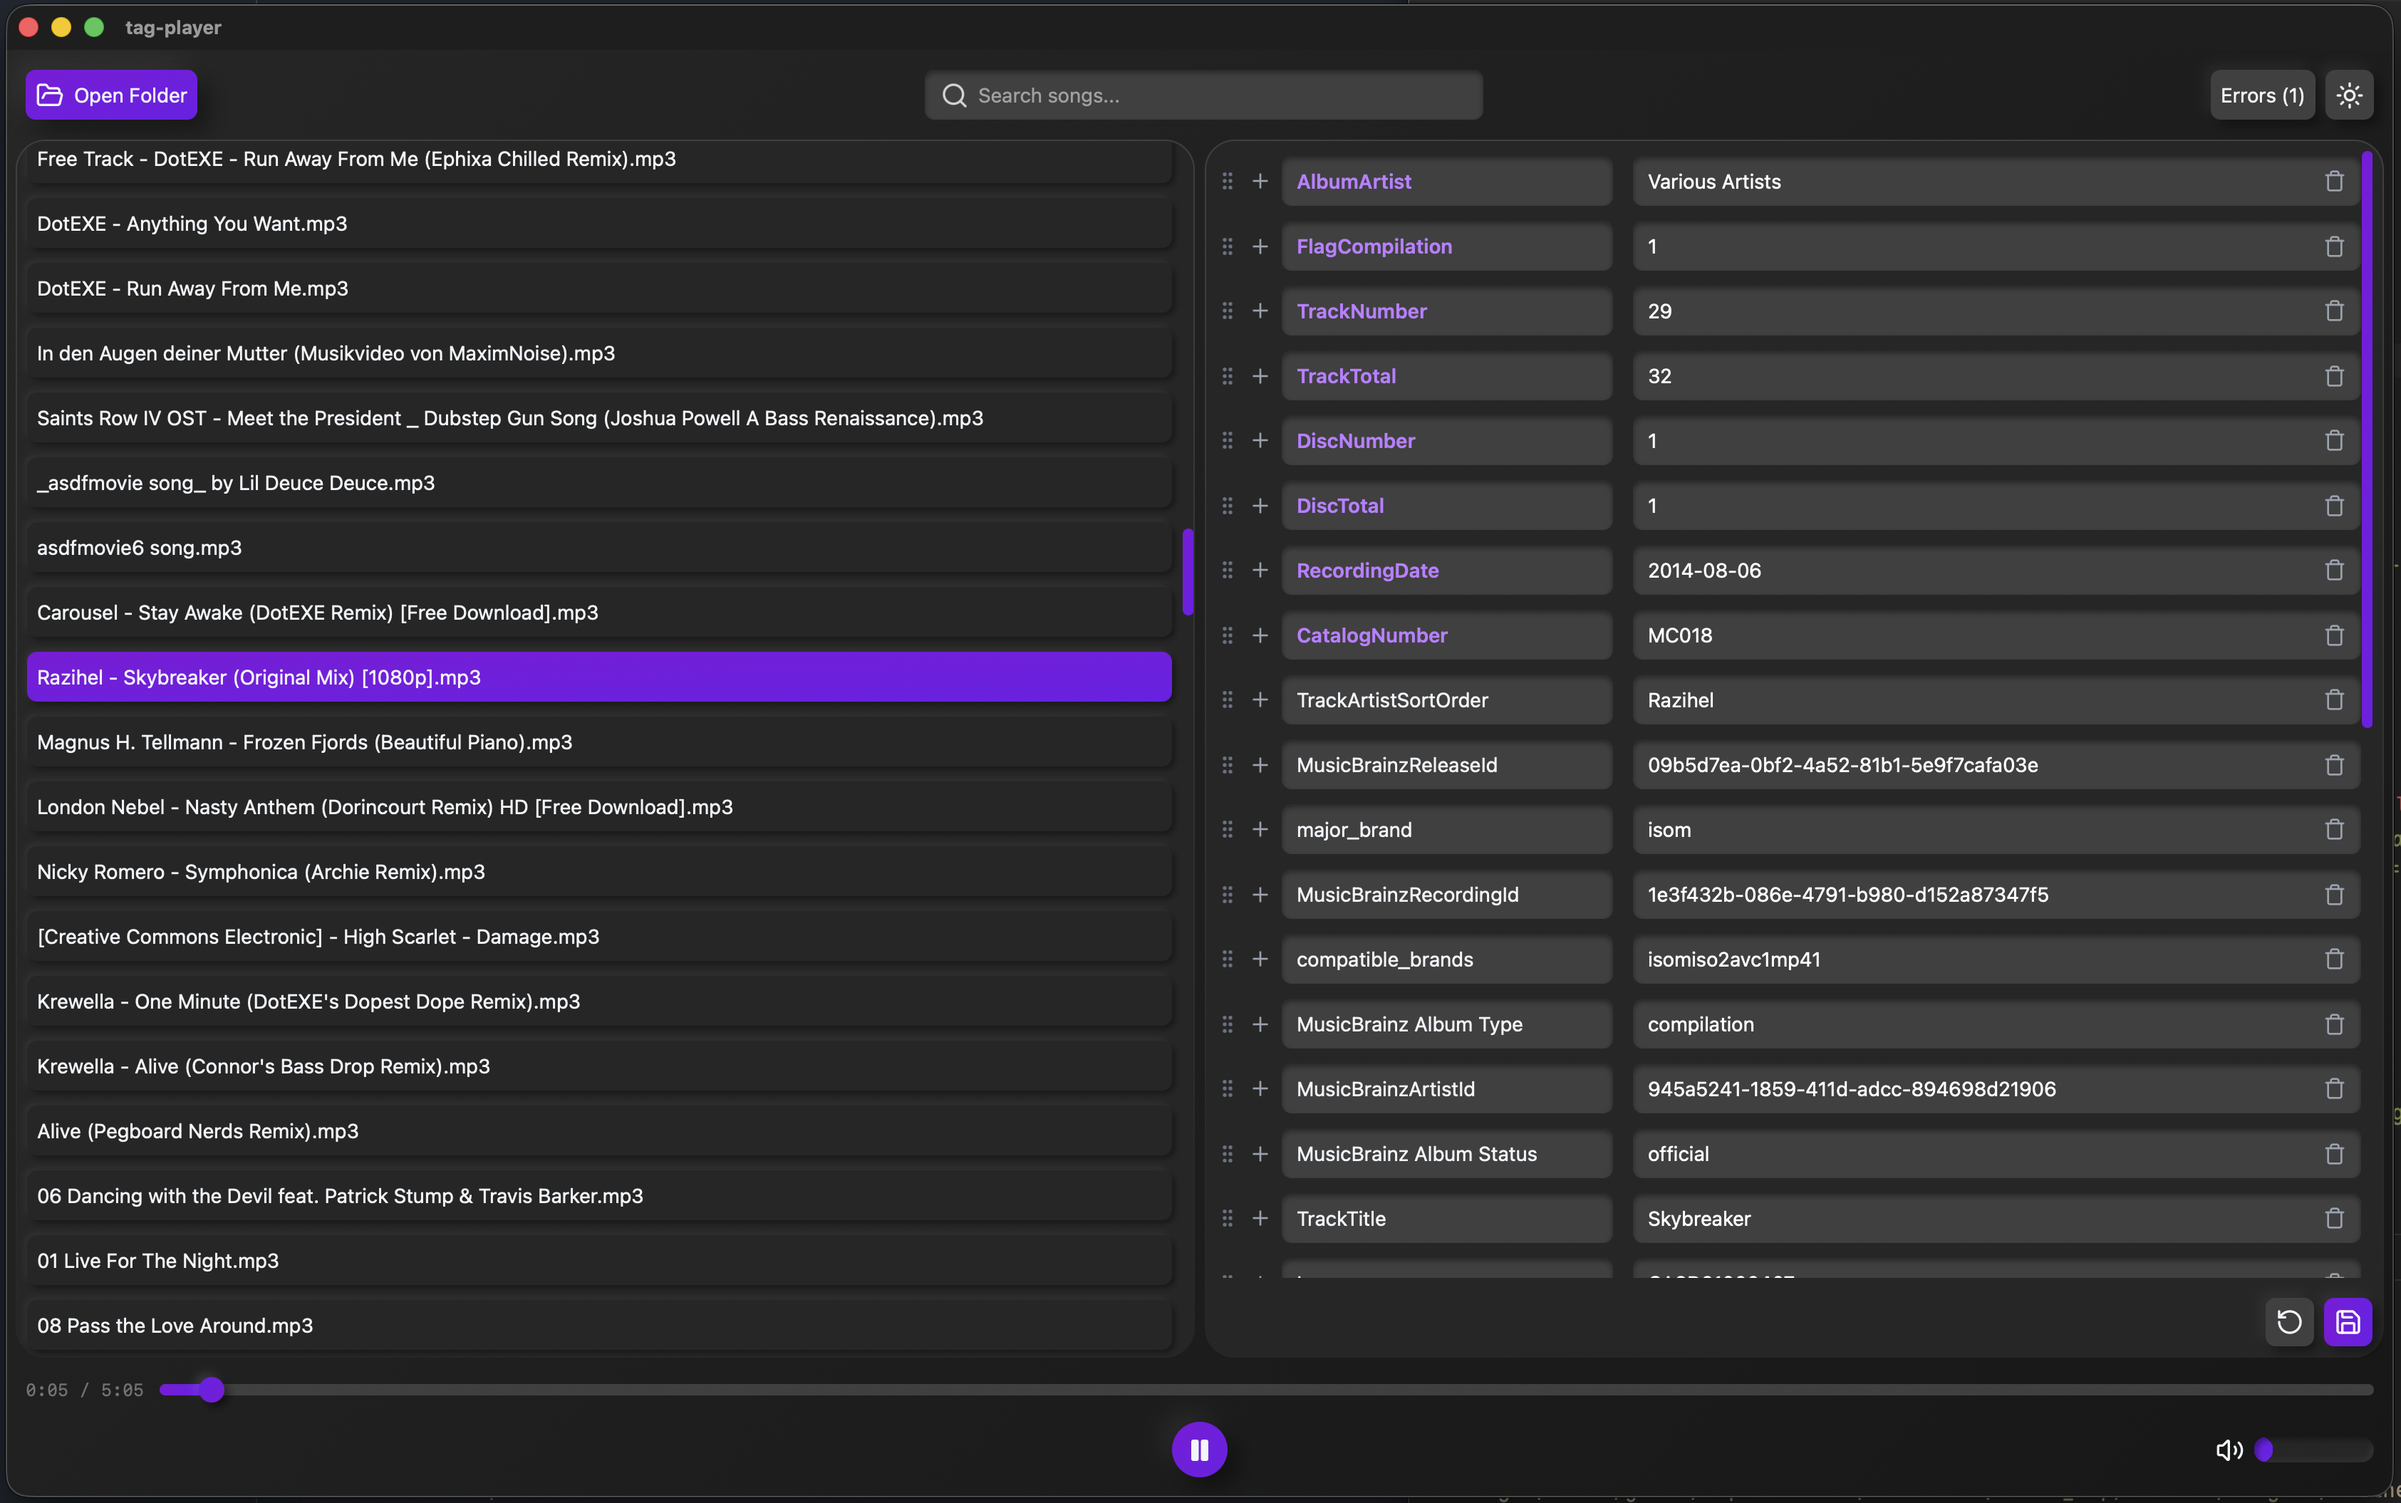
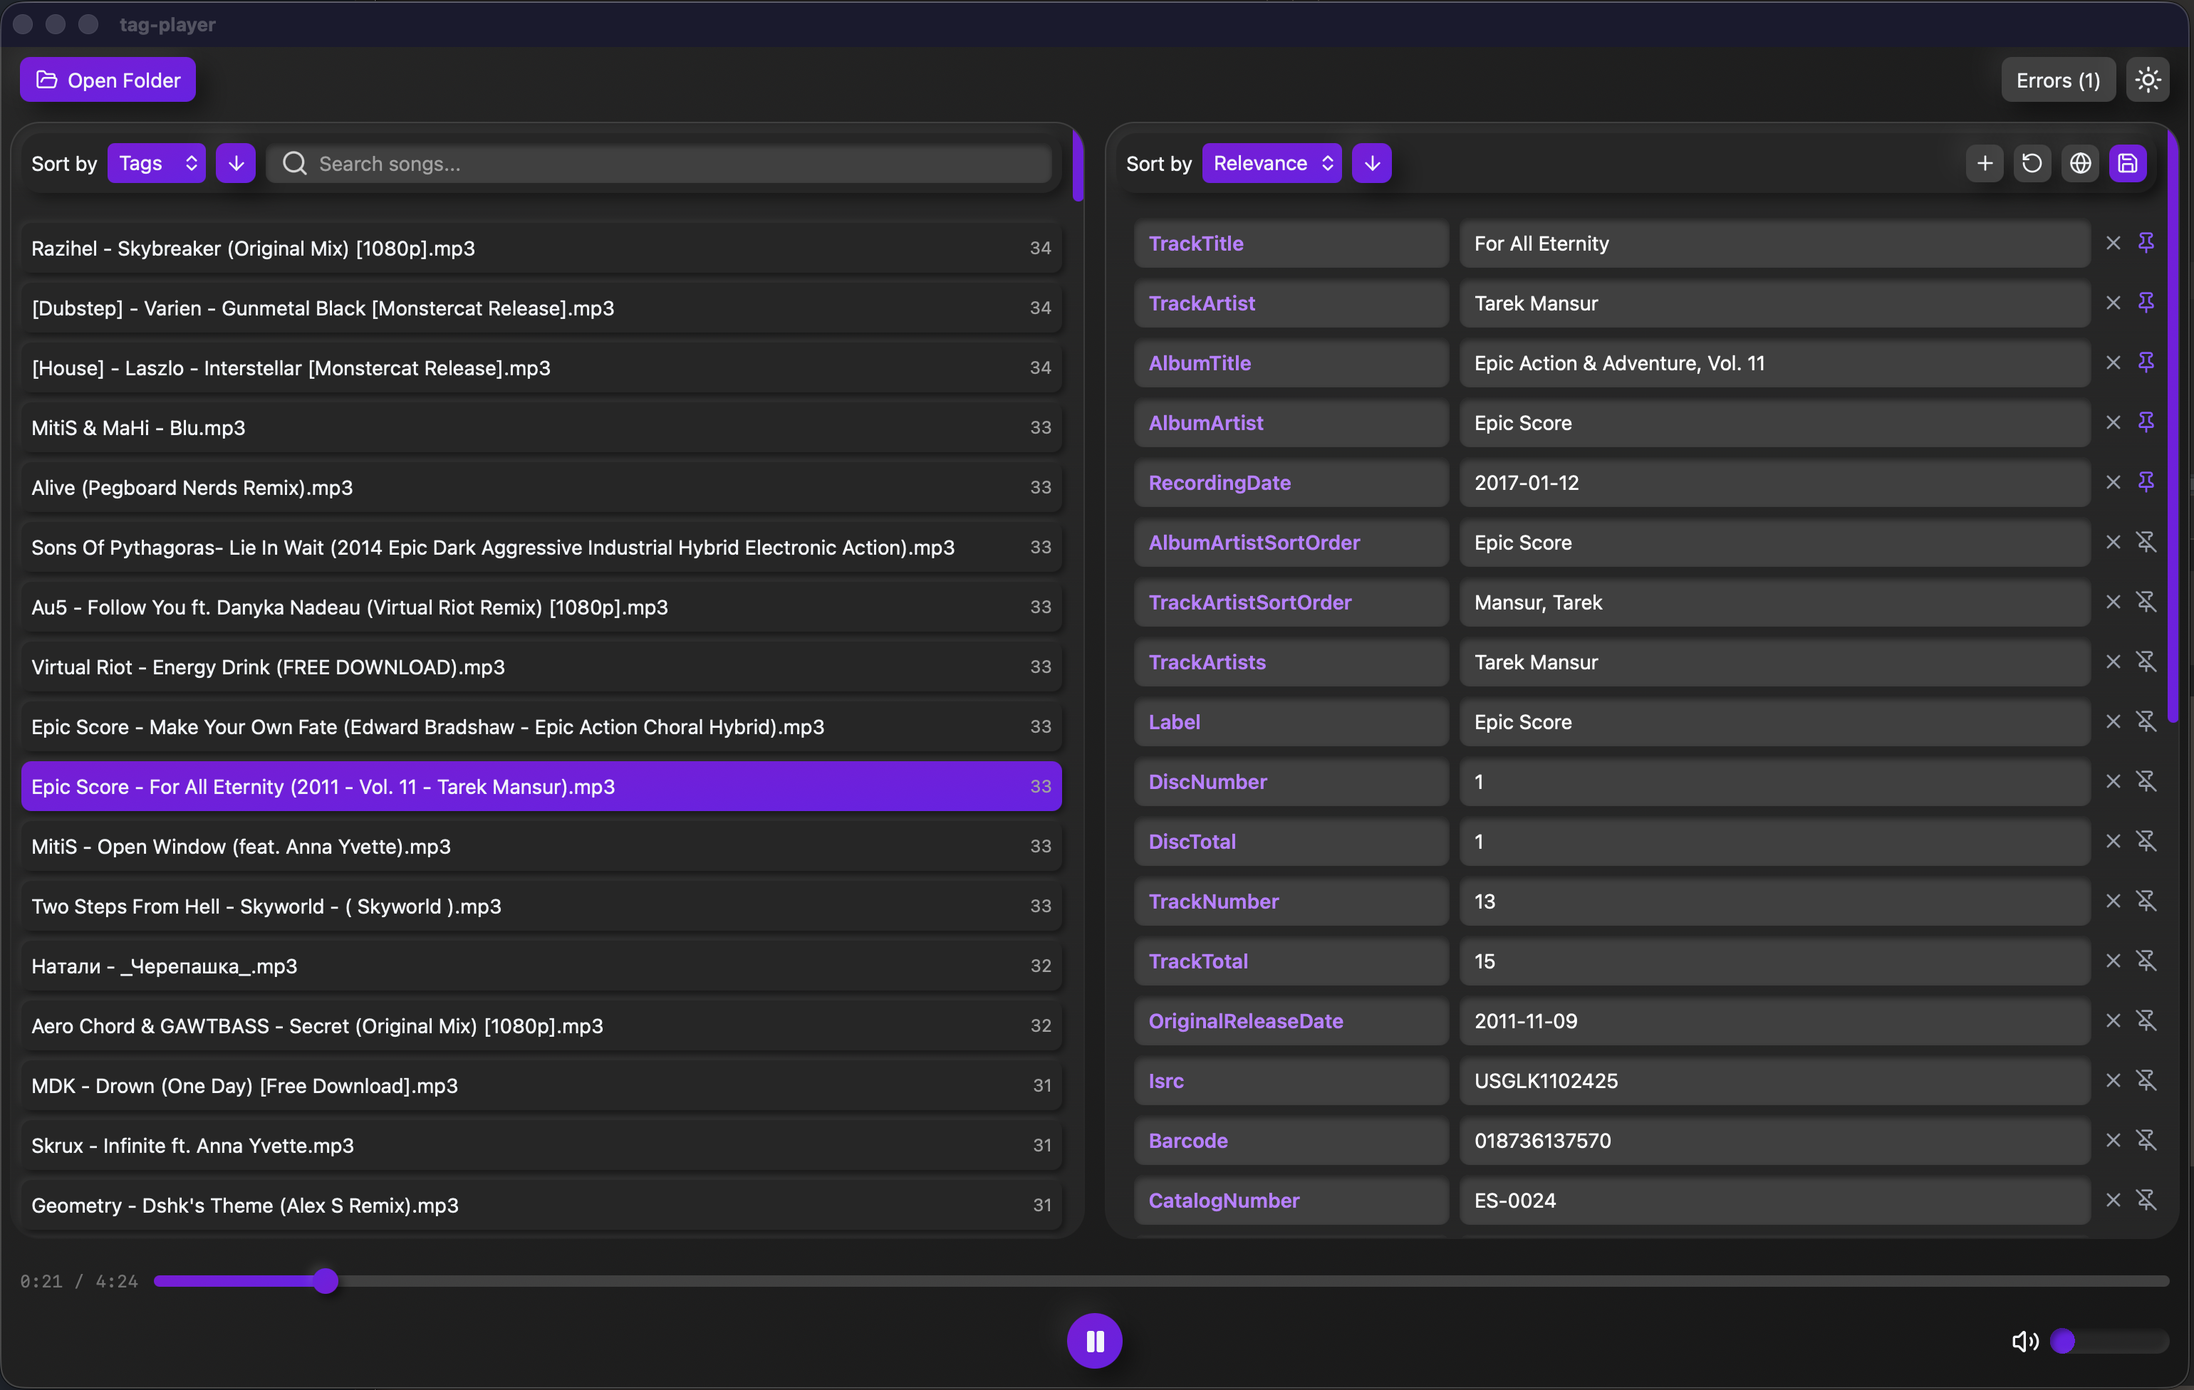
add search button & update image

Changed region(s): [[0.0, 0.0, 1.0, 1.0], [0.4675, 0.9688, 0.5299, 1.0]]

diff --git a/src/lib/components/TagEditorToolbar.svelte b/src/lib/components/TagEditorToolbar.svelte
@@ -1,6 +1,4 @@
-<div
-  class="p-2 bg-neutral-800 rounded-2xl flex items-center gap-2 neo-raised-sm justify-between"
->
+<div class="p-2 bg-neutral-800 rounded-2xl flex items-center gap-2 neo-raised-sm justify-between">
   <SortByToolbar
     bind:sortOrder={tagEditorStore.sortOrder}
     bind:sortBy={tagEditorStore.sortBy}
@@ -18,6 +16,10 @@
     >
       <RotateCcw size={16} />
     </button>
+    <!-- Search Button  -->
+    <button onclick={searchOnWeb} class="btn-secondary">
+      <Globe size={16} />
+    </button>
     <!-- Save Button  -->
     <button
       onclick={() => tagEditorStore.saveTags(playerStore.currentSong)}
@@ -30,13 +32,34 @@
 </div>
 
 <script lang="ts">
-  import { Plus, RotateCcw, Save } from '@lucide/svelte'
+  import { openUrl } from '@tauri-apps/plugin-opener'
+  import { Plus, RotateCcw, Save, Globe } from '@lucide/svelte'
   import SortByToolbar from './SortByToolbar.svelte'
   import { usePlayerStore } from '$lib/stores/playerStore.svelte'
   import { useTagEditorStore } from '$lib/stores/tagEditorStore.svelte'
   import { useAddedTagStore } from '$lib/stores/addedTagStore.svelte.ts'
+  import { some } from 'lodash'
 
   const playerStore = usePlayerStore()
   const tagEditorStore = useTagEditorStore()
   const addedTagStore = useAddedTagStore()
+
+  function searchOnWeb() {
+    const song = playerStore.currentSong
+    if (!song)
+      return
+
+    const searchTags = [
+      song.tags.get('TrackTitle') ?? '',
+      song.tags.get('TrackArtist') ?? '',
+      song.tags.get('AlbumTitle') ?? '',
+    ]
+
+    let searchQuery = some(searchTags)
+      ? searchTags.join(' ')
+      : song.name.replace(/\.[^.]+$/, '')
+
+    const url = `https://kagi.com/search?q=${encodeURIComponent(searchQuery + ' MusicBrainz')}`
+    openUrl(url)
+  }
 </script>
